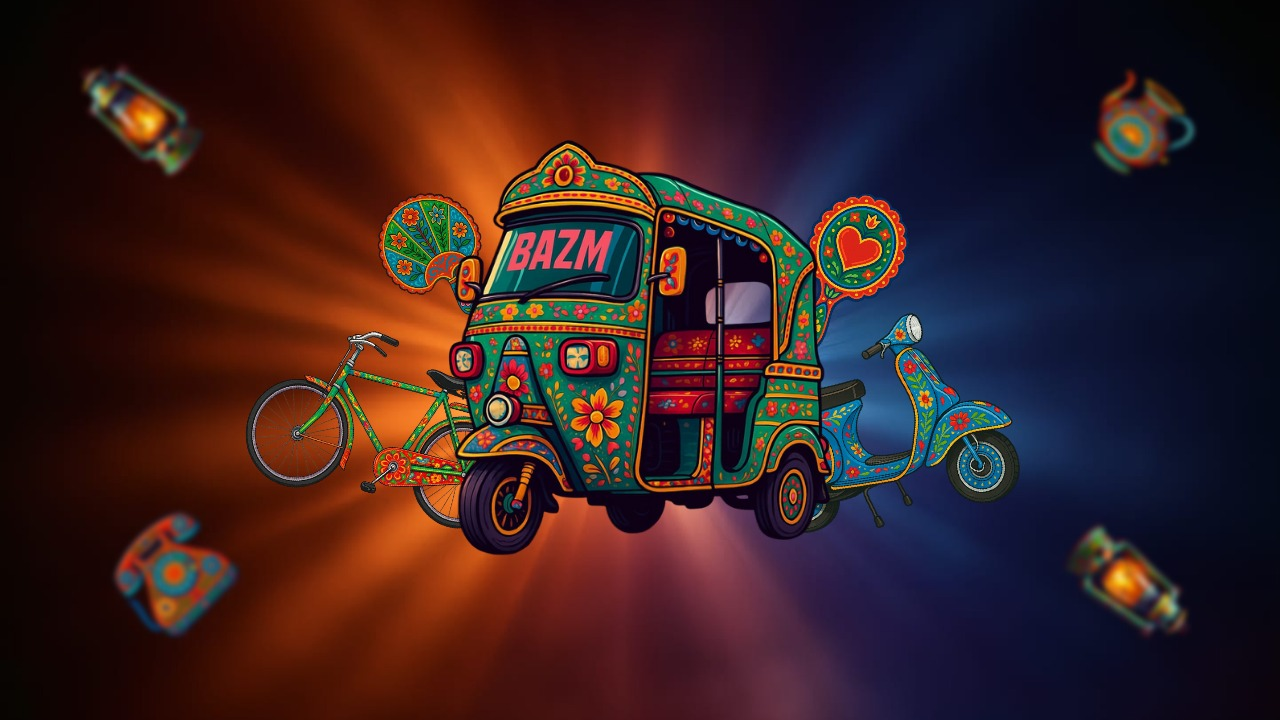
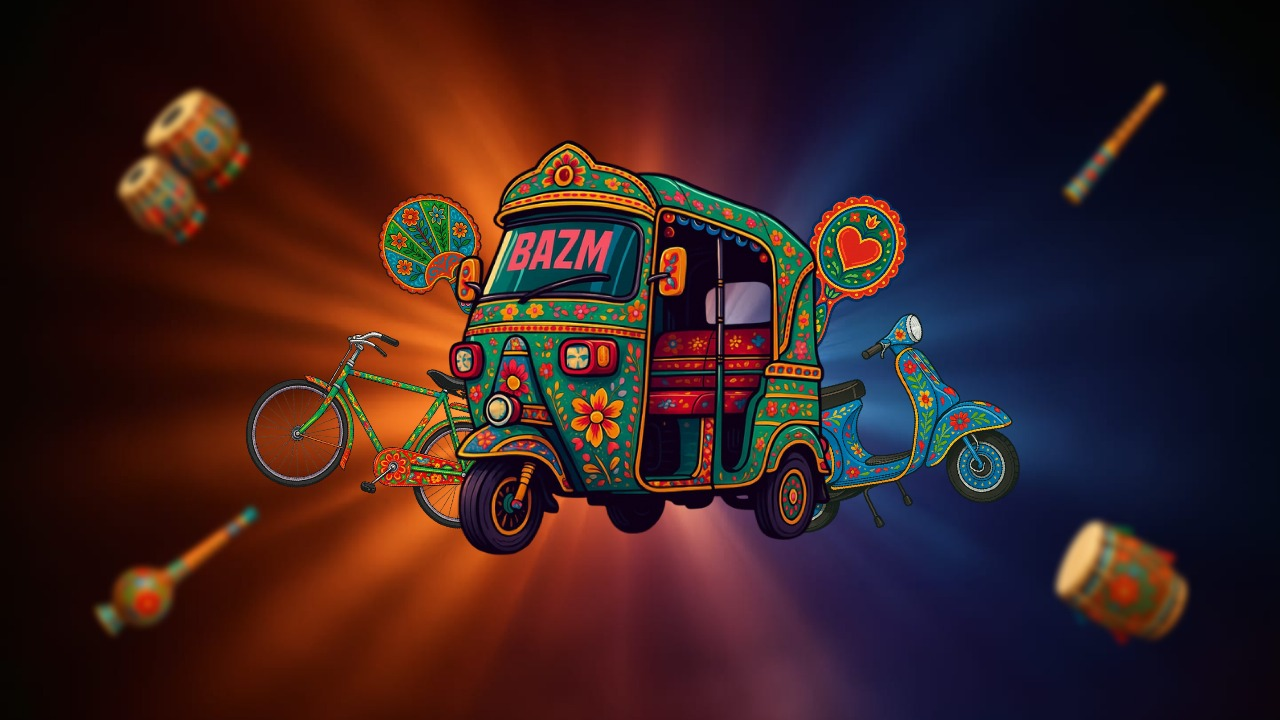
complete

diff --git a/src/components/about.jsx b/src/components/about.jsx
@@ -1,25 +1,15 @@
 import React from "react";
 import { motion } from "framer-motion";
 
-const fadeInUp = {
-  hidden: { opacity: 1, y: 0 },
-  visible: { opacity: 1, y: -10 },
-};
-
-const scaleIn = {
-  hidden: { opacity: 1, scale: 1 },
-  visible: { opacity: 1, scale: 1.05 },
-};
-
 const AboutSection = () => {
   return (
     <section className="bg-black text-white py-16 px-6 md:px-20 max-w-[1920px] mx-auto scroll-smooth">
-      <div className=" space-y-24">
+      <div className="space-y-24">
         {/* PROGRAM */}
         <div id="program" className="grid md:grid-cols-2 gap-12 items-center">
           {/* Text */}
-          <div className="space-y-4">
-            <h2 className="text-3xl font-bold">PROGRAM</h2>
+          <div className="space-y-4 order-1 md:order-1">
+            <h2 className="text-3xl font-light">PROGRAM</h2>
             <p className="text-gray-300 text-justify">
               Oppdag våre kommende arrangementer, kulturelle samlinger og
               verksteder som viser frem den rike arven fra Sør-Asia. Fra livlige
@@ -38,7 +28,7 @@ const AboutSection = () => {
             </a>
           </div>
           {/* Image */}
-          <div>
+          <div className="order-2 md:order-2">
             <motion.img
               src="/program.webp"
               alt="Program"
@@ -52,7 +42,7 @@ const AboutSection = () => {
         {/* ARTISTS */}
         <div id="artists" className="grid md:grid-cols-2 gap-12 items-center">
           {/* Image Left */}
-          <div>
+          <div className="order-2 md:order-1">
             <motion.img
               src="/artist.webp"
               alt="Artists"
@@ -62,8 +52,8 @@ const AboutSection = () => {
             />
           </div>
           {/* Text Right */}
-          <div className="space-y-4">
-            <h2 className="text-3xl font-bold">ARTISTER</h2>
+          <div className="space-y-4 order-1 md:order-2">
+            <h2 className="text-3xl font-light">ARTISTER</h2>
             <p className="text-gray-300 text-justify">
               Utforsk tradisjonelle og moderne forestillinger fra talentfulle
               lokale og internasjonale artister. Opplev skjønnheten i fusjon når
@@ -88,8 +78,8 @@ const AboutSection = () => {
         {/* TICKETS */}
         <div id="tickets" className="grid md:grid-cols-2 gap-12 items-center">
           {/* Text */}
-          <div className="space-y-4">
-            <h2 className="text-3xl font-bold">BILLETTER</h2>
+          <div className="space-y-4 order-1 md:order-1">
+            <h2 className="text-3xl font-light">BILLETTER</h2>
             <p className="text-gray-300 text-justify">
               Kjøp billetter til våre festivaler og kulturarrangementer med
               letthet. Sikre deg en plass på forhånd og bli en del av en
@@ -108,7 +98,7 @@ const AboutSection = () => {
             </a>
           </div>
           {/* Image */}
-          <div>
+          <div className="order-2 md:order-2">
             <motion.img
               src="/tickets.webp"
               alt="Tickets"
@@ -125,7 +115,7 @@ const AboutSection = () => {
           className="grid md:grid-cols-2 gap-12 items-center"
         >
           {/* Image Left */}
-          <div>
+          <div className="order-2 md:order-1">
             <motion.img
               src="/mela.webp"
               alt="Volunteer"
@@ -135,8 +125,8 @@ const AboutSection = () => {
             />
           </div>
           {/* Text Right */}
-          <div className="space-y-4">
-            <h2 className="text-3xl font-bold">MELA FESTIVAL</h2>
+          <div className="space-y-4 order-1 md:order-2">
+            <h2 className="text-3xl font-light">MELA FESTIVAL</h2>
             <p className="text-gray-300 text-justify">
               Mela-festivalen er en livlig feiring av sørasiatisk kultur som
               samler mennesker fra alle bakgrunner for å oppleve rikdommen av
@@ -158,8 +148,8 @@ const AboutSection = () => {
         {/* MUSIC */}
         <div id="music" className="grid md:grid-cols-2 gap-12 items-center">
           {/* Text */}
-          <div className="space-y-4">
-            <h2 className="text-3xl font-bold">MUSIKK</h2>
+          <div className="space-y-4 order-1 md:order-1">
+            <h2 className="text-3xl font-light">MUSIKK</h2>
             <p className="text-gray-300 text-justify">
               Musikk ligger i hjertet av våre kulturelle feiringer. Fra
               klassiske ragas og religiøse sanger til energiske folkeslag og
@@ -177,7 +167,7 @@ const AboutSection = () => {
             </a>
           </div>
           {/* Image */}
-          <div>
+          <div className="order-2 md:order-2">
             <motion.img
               src="/music.webp"
               alt="Music"
@@ -191,8 +181,8 @@ const AboutSection = () => {
         {/* ABOUT */}
         <div id="about" className="grid md:grid-cols-2 gap-12 items-center">
           {/* Text */}
-          <div className="space-y-4">
-            <h2 className="text-3xl font-bold">OM</h2>
+          <div className="space-y-4 order-1 md:order-1">
+            <h2 className="text-3xl font-light">OM</h2>
             <p className="text-gray-300 text-justify">
               Bazm Cultural Festival fremmer sørasiatisk kultur i Bergen gjennom
               tradisjoner, verdier og fellesskapsaktiviteter. Vårt oppdrag er å
@@ -206,7 +196,7 @@ const AboutSection = () => {
             </p>
           </div>
           {/* Image */}
-          <div>
+          <div className="order-2 md:order-2">
             <motion.img
               src="/about.webp"
               alt="About"
@@ -220,4 +210,5 @@ const AboutSection = () => {
     </section>
   );
 };
+
 export default AboutSection;

diff --git a/src/components/Navbar.jsx b/src/components/Navbar.jsx
@@ -1,5 +1,5 @@
 import React, { useState } from "react";
-import logo from "/logo.png";
+import logo from "/bazmlogo.jpeg";
 
 const Navbar = () => {
   const [isMenuOpen, setIsMenuOpen] = useState(false);
@@ -8,20 +8,28 @@ const Navbar = () => {
     setIsMenuOpen(!isMenuOpen);
   };
 
+  // English + Norwegian labels
+  const navLinks = [
+    { href: "#program", en: "PROGRAM", no: "PROGRAM" },
+    { href: "#artists", en: "ARTISTS", no: "KUNSTNERE" },
+    { href: "#tickets", en: "TICKETS", no: "BILLETTER" },
+    { href: "#mela-festival", en: "MELA FESTIVAL", no: "MELA FESTIVAL" },
+    { href: "#about", en: "ABOUT", no: "OM OSS" },
+  ];
+
   return (
-    <nav className="absolute top-0 left-0 w-full flex items-center justify-between px-4 sm:px-10 py-4 text-white font-semibold z-10">
+    <nav className="absolute left-0 w-full flex items-center justify-between px-4 sm:px-10 py-3 text-white font-semibold z-50">
       {/* Logo */}
       <div className="flex items-center gap-4">
         <img
           src={logo}
           alt="Bazm Logo"
-          width={120}
-          height={80}
-          className="rounded-full object-contain"
+          className="rounded-full object-contain 
+                     w-16 h-16 sm:w-20 sm:h-20 md:w-24 md:h-24 lg:w-28 lg:h-28 xl:w-26 xl:h-26 2xl:w-36 2xl:h-36"
         />
       </div>
 
-      {/* Toggle Button for Mobile */}
+      {/* Mobile Toggle */}
       <button
         className="md:hidden text-white focus:outline-none"
         onClick={toggleMenu}
@@ -45,45 +53,25 @@ const Navbar = () => {
 
       {/* Navigation Links */}
       <div
-        className={`fixed md:static top-16 right-0 w-3/5 md:w-auto bg-black/80 md:bg-transparent p-4 md:p-0 flex flex-col md:flex-row gap-4 md:gap-8 text-sm md:text-base transform transition-transform duration-300 ease-in-out ${
+        className={`fixed md:static right-0 w-3/5 md:w-auto bg-black/80 md:bg-transparent p-4 md:p-0 flex flex-col md:flex-row gap-4 md:gap-8 text-sm md:text-base transform transition-transform duration-300 ease-in-out ${
           isMenuOpen ? "translate-x-0" : "translate-x-full"
         } md:translate-x-0 md:flex`}
       >
-        <a
-          href="#program"
-          className="hover:text-orange-400 transition"
-          onClick={() => setIsMenuOpen(false)}
-        >
-          PROGRAM
-        </a>
-        <a
-          href="#artists"
-          className="hover:text-orange-400 transition"
-          onClick={() => setIsMenuOpen(false)}
-        >
-          ARTISTS
-        </a>
-        <a
-          href="#tickets"
-          className="hover:text-orange-400 transition"
-          onClick={() => setIsMenuOpen(false)}
-        >
-          TICKETS
-        </a>
-        <a
-          href="#mela-festival"
-          className="hover:text-orange-400 transition"
-          onClick={() => setIsMenuOpen(false)}
-        >
-          MELA FESTIVAL
-        </a>
-        <a
-          href="#about"
-          className="hover:text-orange-400 transition"
-          onClick={() => setIsMenuOpen(false)}
-        >
-          ABOUT
-        </a>
+        {navLinks.map((link, idx) => (
+          <a
+            key={idx}
+            href={link.href}
+            data-en={link.en}
+            data-no={link.no}
+            onClick={() => setIsMenuOpen(false)}
+            className="relative transition hover:text-orange-400 
+                       after:content-[''] after:absolute after:left-0 after:-bottom-1 
+                       after:w-0 hover:after:w-full after:h-[2px] 
+                       after:bg-gradient-to-r after:from-orange-400 after:to-blue-400 
+                       after:transition-all after:duration-300
+                       before:content-[attr(data-en)] before:block hover:before:content-[attr(data-no)]"
+          ></a>
+        ))}
       </div>
     </nav>
   );

diff --git a/src/components/Footer.jsx b/src/components/Footer.jsx
@@ -31,11 +31,12 @@ const Footer = () => {
                   <p className="text-sm text-gray-300">Cultural Festival</p>
                 </div>
               </div>
+
               <p className="text-gray-300 text-sm leading-relaxed mb-6">
                 Celebrating diverse cultures and bringing communities together
                 through art, music, and traditions from around the world.
               </p>
-              
+
               {/* Social Media Icons */}
               <div className="flex gap-4">
                 <div className="w-10 h-10 bg-gray-800 hover:bg-orange-400 rounded-full flex items-center justify-center transition-colors duration-300 cursor-pointer">
@@ -87,7 +88,7 @@ const Footer = () => {
                   <p className="mb-2">📞 +47 1234 5678</p>
                   <p>📍 Cultural Center, Norway</p>
                 </div>
-                
+
                 {/* Newsletter Signup */}
                 <div className="mt-6">
                   <h5 className="text-sm font-semibold mb-3 text-white">Newsletter</h5>
@@ -104,6 +105,7 @@ const Footer = () => {
                 </div>
               </div>
             </div>
+
           </div>
         </div>
 
@@ -113,7 +115,7 @@ const Footer = () => {
             <div className="text-gray-400 text-sm text-center md:text-left">
               <p>&copy; 2025 Bazm Cultural Festival. All rights reserved.</p>
             </div>
-            
+
             <div className="flex gap-6 text-xs text-gray-400">
               <span className="hover:text-orange-400 transition-colors duration-300 cursor-pointer">Privacy Policy</span>
               <span className="hover:text-orange-400 transition-colors duration-300 cursor-pointer">Terms of Service</span>

diff --git a/src/components/Hero.jsx b/src/components/Hero.jsx
@@ -1,5 +1,5 @@
 import React, { useState, useEffect } from "react";
-import bgImage from "/herobackground.jpeg";
+import bgImage from "/herobackground1.png";
 import Navbar from "./Navbar";
 
 const Hero = () => {
@@ -22,24 +22,22 @@ const Hero = () => {
   }, [headings.length]);
 
   return (
-    <div className="relative h-screen max-w-[1920px] mx-auto overflow-hidden scroll-smooth">
-      {/* Background Image */}
+    <div className="relative h-screen max-w-[1920px] mx-auto  overflow-hidden scroll-smooth">
       <div
         className="absolute inset-0 bg-cover bg-center z-0"
         style={{ backgroundImage: `url(${bgImage})` }}
       />
 
       {/* Dark Overlay */}
-      <div className="absolute inset-0 bg-black/60 z-0"></div>
+      <div className="absolute inset-0 bg-black/10 z-0"></div>
 
       {/* Navbar */}
       <Navbar />
-
-      {/* Hero Content */}
+      
       <div className="relative z-10 flex flex-col items-center justify-center h-full text-center text-white px-4">
         <h1 className="text-4xl md:text-6xl font-bold leading-tight drop-shadow-lg transition-all duration-700 ease-in-out">
           {headings[currentIndex].main} <br />
-          <span className="text-5xl md:text-7xl font-extrabold text-orange-400">
+          <span className="text-4xl md:text-7xl font-bold text-orange-500">
             {headings[currentIndex].sub}
           </span>
         </h1>
